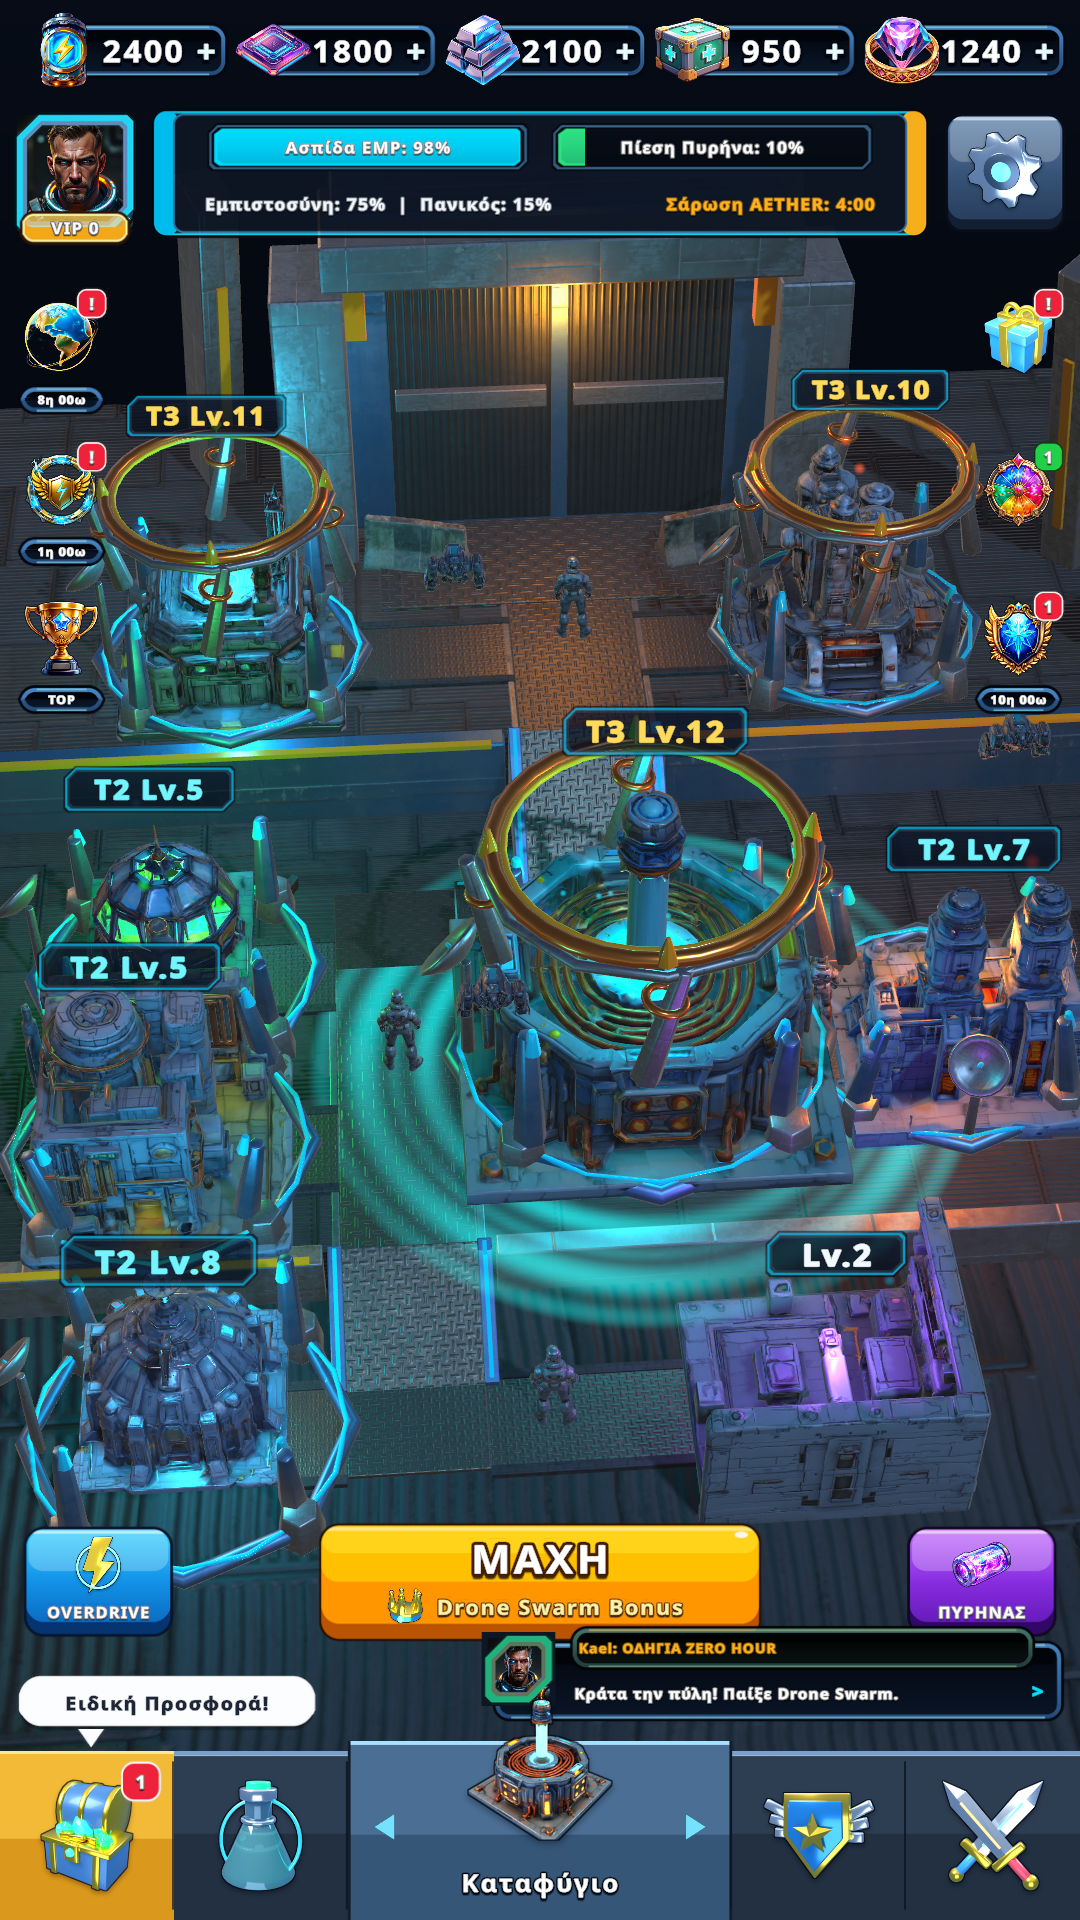
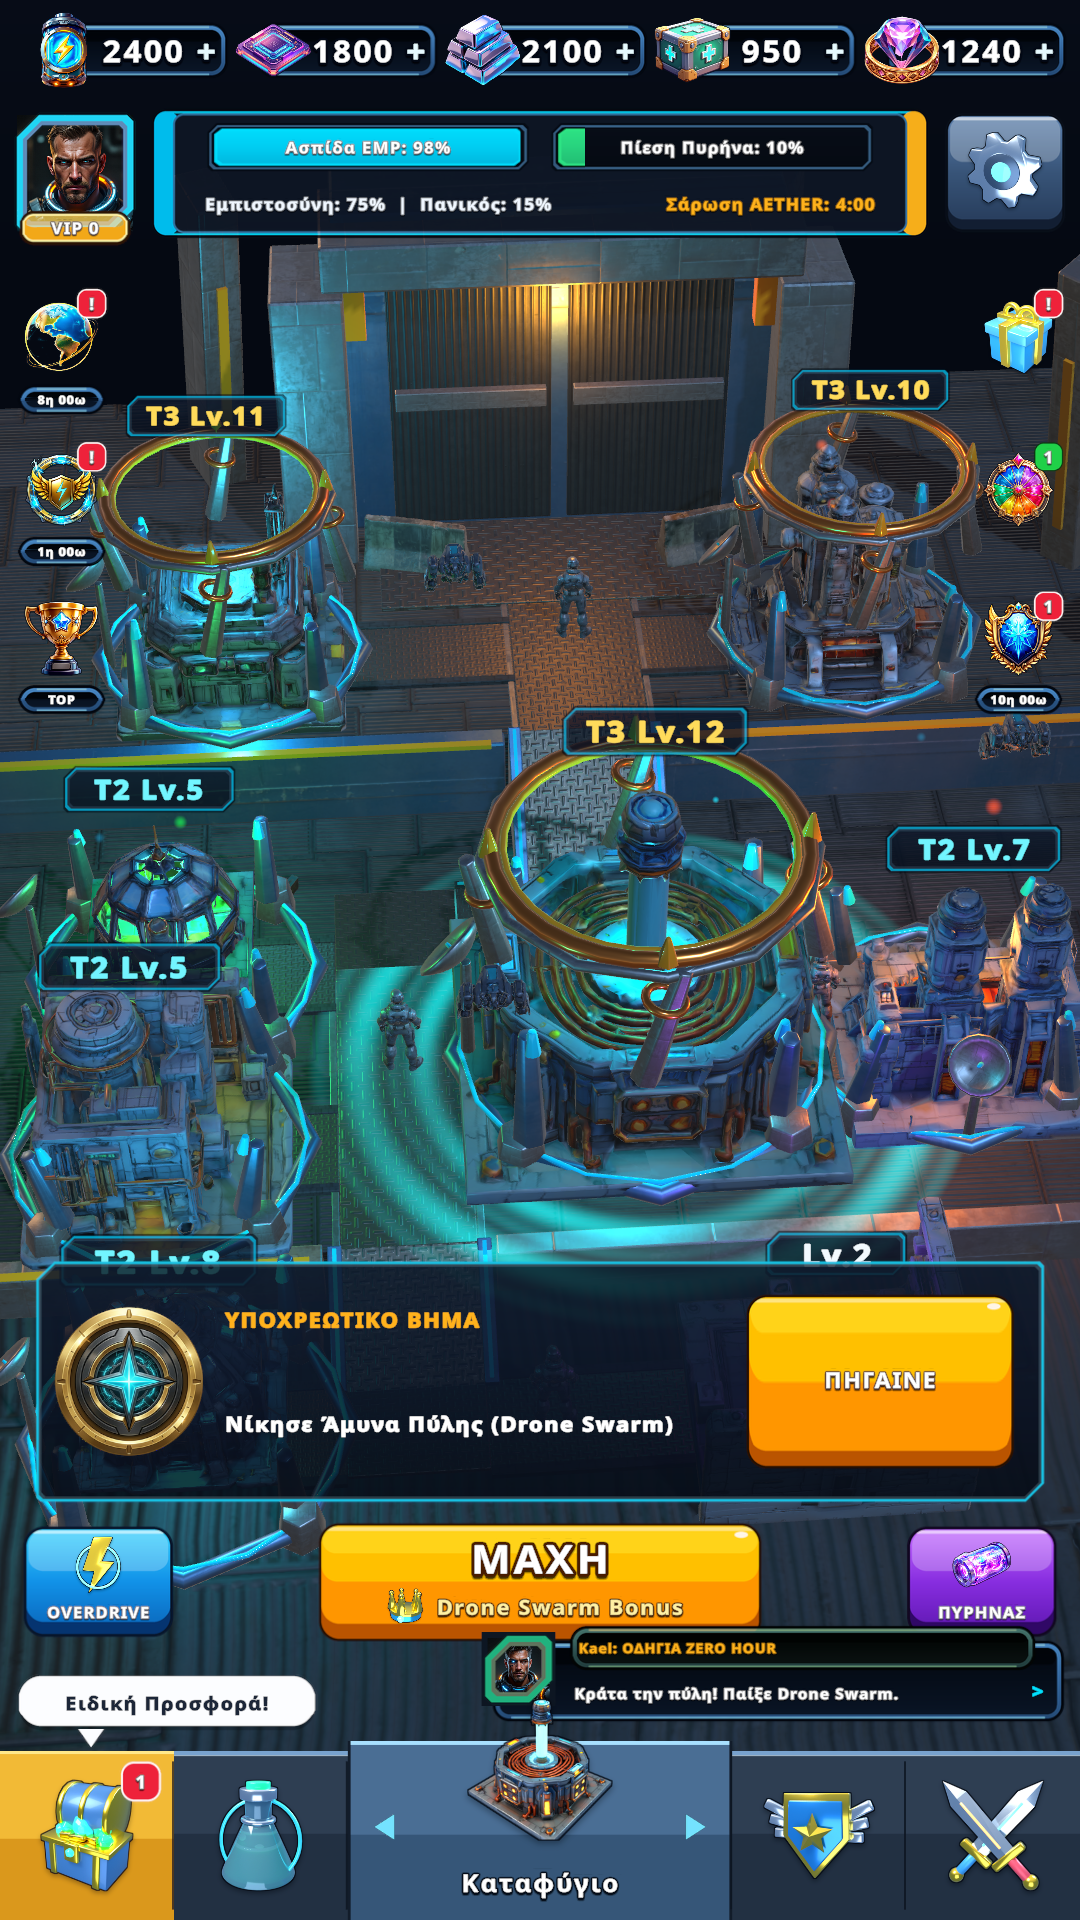
Release v1.0.0 previews, README & version manifest

diff --git a/README.md b/README.md
@@ -5,17 +5,22 @@ Command a subterranean Faraday bunker, defend the North Gate in real-time 3D min
 
 ---
 
-## Screenshots (`v0.9.0`)
+## Screenshots (`v1.0.0`)
 
 <p align="center">
-  <img src="previews/V090_Bunker_Tier3D_EL.png" alt="3D Tiered Building Upgrades EL" width="240" />
-  <img src="previews/V090_Bunker_Tier3D_EN.png" alt="3D Tiered Building Upgrades EN" width="240" />
-  <img src="previews/V090_WarMissions_Ranked_EL.png" alt="Ranked Mini-Games" width="240" />
+  <img src="previews/V095_Launch_Splash_EL.png" alt="Launch Splash & App Emblem" width="240" />
+  <img src="previews/V100_Store_Icons_EL.png" alt="Visual Icon-First Store" width="240" />
+  <img src="previews/V100_Store_VaultGrid_EL.png" alt="Quantum Diamond Vaults" width="240" />
 </p>
 <p align="center">
-  <img src="previews/V090_Store_VIP_EL.png" alt="VIP & Upgrades" width="240" />
-  <img src="previews/V080_Raid_Campaign100_EL.png" alt="100-Stage Campaign" width="240" />
-  <img src="previews/V080_DroneSwarm_EL.png" alt="3D Drone Swarm" width="240" />
+  <img src="previews/V100_Starter_Forced_EL.png" alt="Starter Guide Chapter 1" width="240" />
+  <img src="previews/V100_Starter_Bubble_EL.png" alt="Starter Guide Action Bubble" width="240" />
+  <img src="previews/V100_Starter_Chapters_EL.png" alt="Starter Guide 6 Chapters & Gifts" width="240" />
+</p>
+<p align="center">
+  <img src="previews/V100_Settings_GameGuide_EL.png" alt="Commander Manual in Settings" width="240" />
+  <img src="previews/V100_Google_Overlay_EL.png" alt="Google Sign-In Dialog" width="240" />
+  <img src="previews/V090_Bunker_Tier3D_EL.png" alt="3D Tiered Building Upgrades" width="240" />
 </p>
 
 ---
@@ -26,11 +31,12 @@ Command a subterranean Faraday bunker, defend the North Gate in real-time 3D min
 [![Latest Release](https://img.shields.io/github/v/release/jemangr/neuralis-releases?include_prereleases&style=for-the-badge&color=00b0ff)](https://github.com/jemangr/neuralis-releases/releases/latest)
 
 - **Always Latest APK:** [`Neuralis-ZeroHour.apk`](https://github.com/jemangr/neuralis-releases/releases/latest/download/Neuralis-ZeroHour.apk)
-- **Current Build:** `v0.9.0` (Android ARM64, API 26+)
+- **Current Build:** `v1.0.0` (`VersionCode: 12`, Android ARM64, API 26+)
 
 ---
 
-## What's New (`v0.9.0` Highlights)
-- **Visual 3D Building Evolution:** New armored stabilization rigs at `Lv.5+` and golden apex halo crowns at `Lv.10+` across all bunker facilities.
-- **Rebalanced 100-Stage Progression:** Smoother pacing across upgrades, VIP combat perks, Command Pass bonuses, and Growth Fund Hero XP rewards.
-- **Daily Ranked Mini-Games & Stability:** Structured daily ranked rewards plus security and performance enhancements.
+## What's New (`v1.0.0` Highlights)
+- **New App Icon & Launch Splash Screen:** Refreshed app emblem and atmospheric command bunker opening splash screen.
+- **6-Chapter Starter Guide with Gifts:** Step-by-step onboarding from your first upgrade, farming, army training, and offers all the way to Core Lv.5 and joining a Syndicate — featuring guided first steps, a smart floating action bubble, and gift rewards upon completing each group.
+- **Icon-First Store Redesign & Larger Typography:** All Store categories redesigned around clean visual icons, compact pricing, notification badges for free claims, and larger, high-contrast mobile text.
+- **Commander's Manual & UI Polish:** New illustrated Game Guide inside Settings, cleaner Google Sign-In dialog, and general visual and stability improvements.
